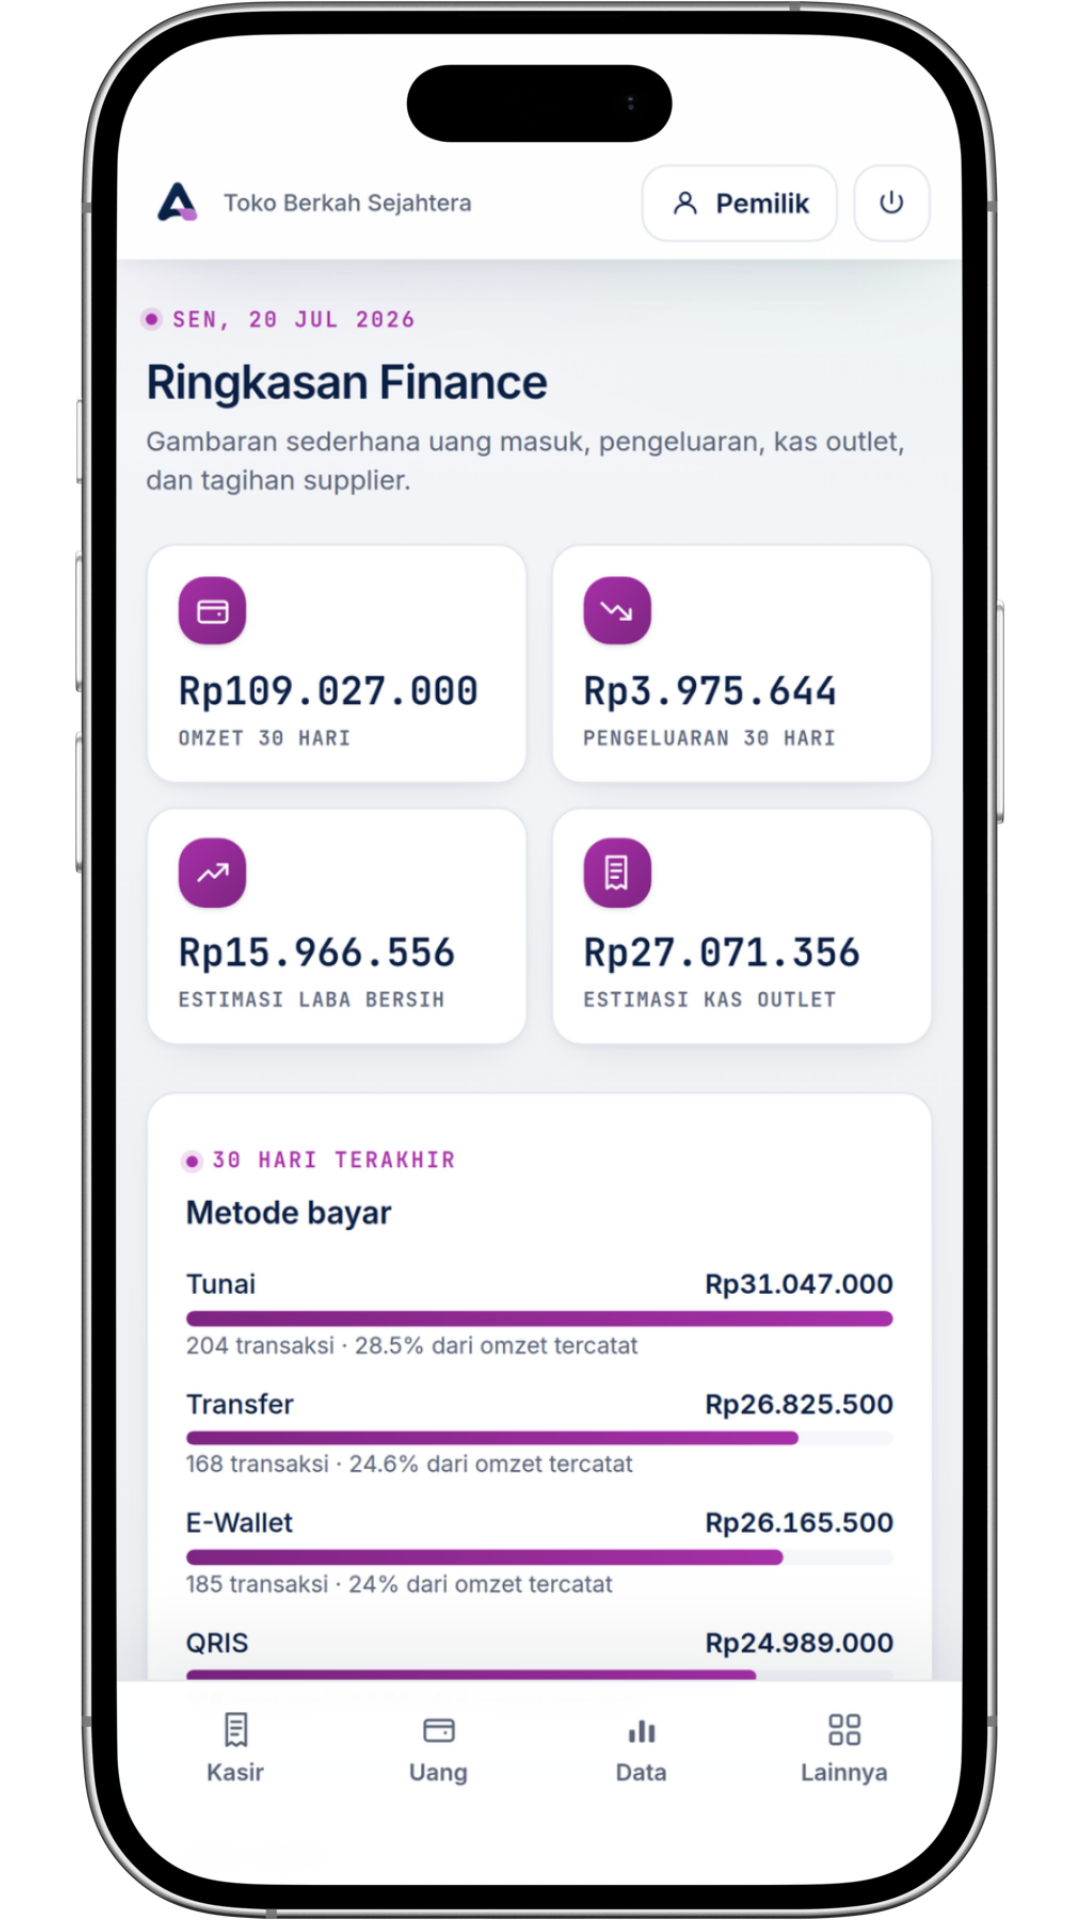
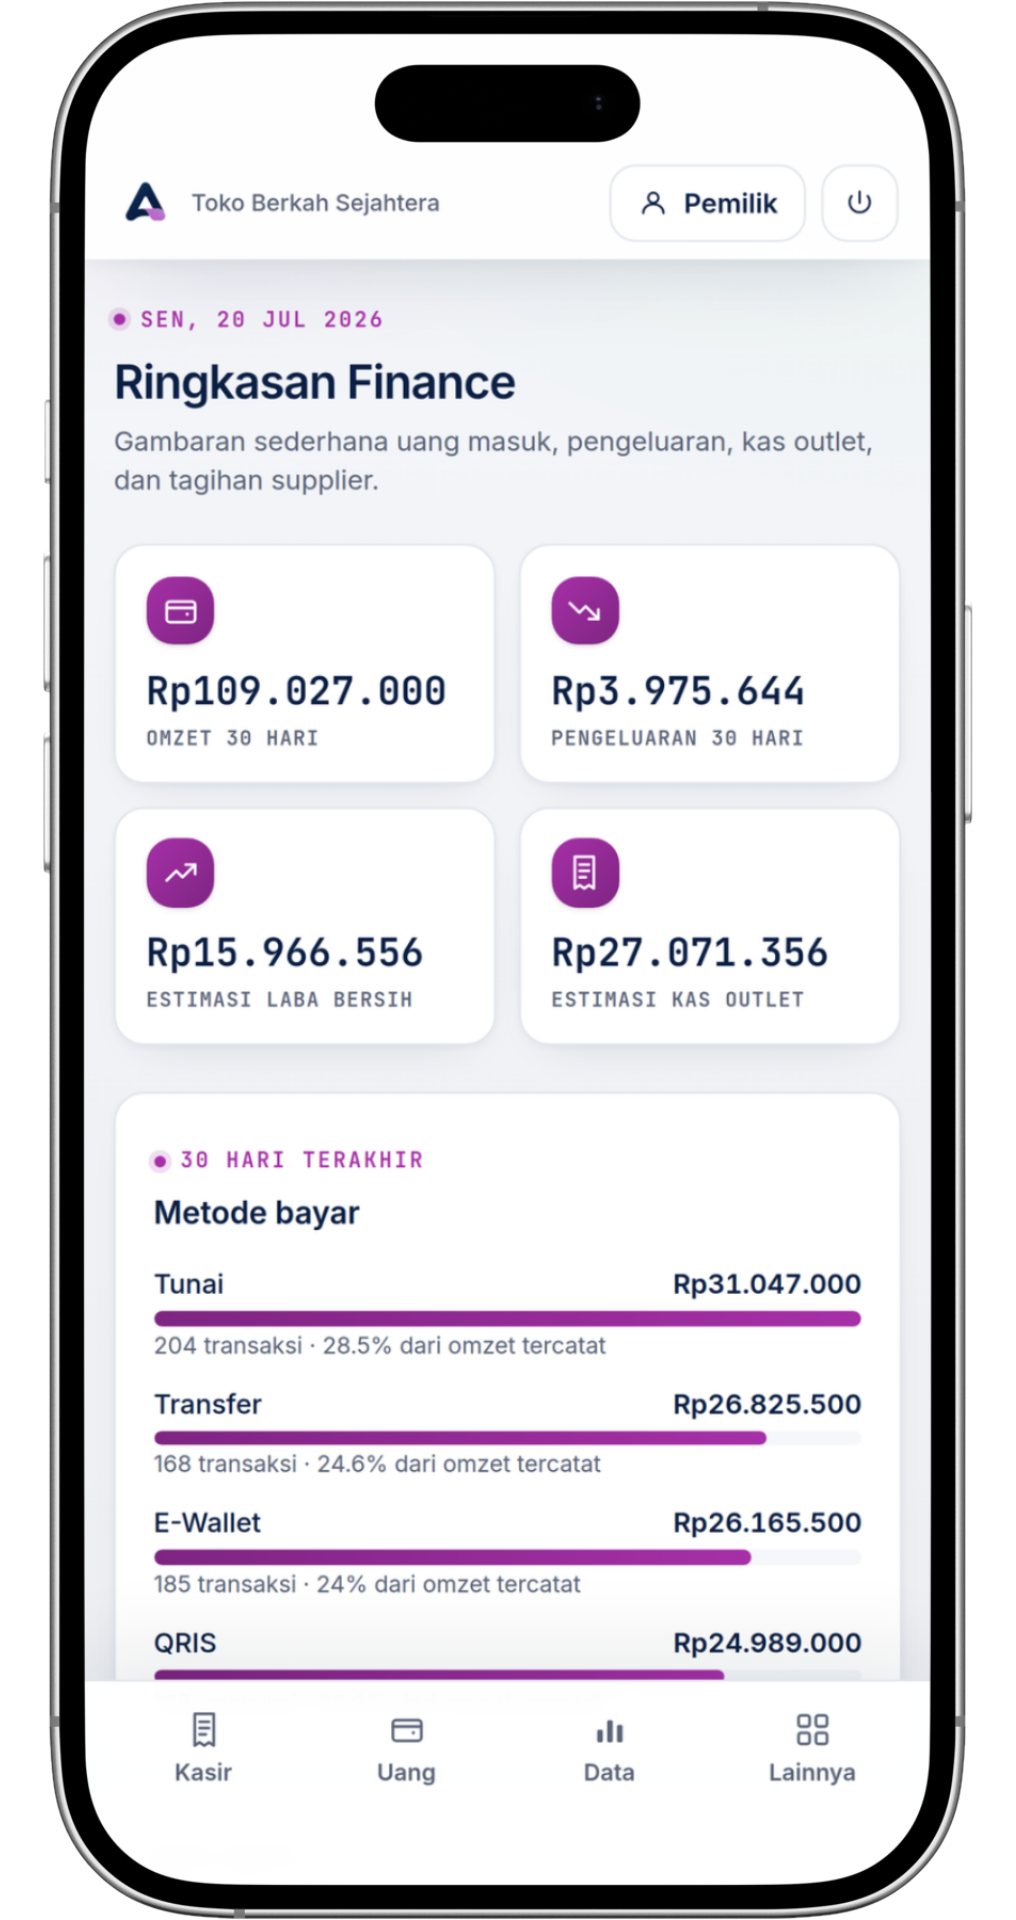
fix(landing): overlap device mockup photos instead of laying them side by side
Removed the flat white/light-gray background from each mockup photo
(flood-fill from the image corners, restricted to near-white pixels, so
white UI content on the actual screens isn't punched through) and
switched the layout from a flex row to absolute positioning on a shared
aspect-ratio stage, reusing the original .bs-stage composition
percentages (laptop back-left large, tablet overlapping top-right,
phone overlapping bottom-right, front-most) so it matches the reference
layout instead of three separate boxed photos with visible edges.

diff --git a/src/app/landing.css b/src/app/landing.css
@@ -1157,19 +1157,25 @@ html { scroll-behavior: auto; }
   }
 
 
-/* ---- Panggung foto device asli (ganti .bs-stage ilustrasi CSS) ---- */
-.altora-landing .device-photo-stage { display: flex; align-items: flex-end; gap: clamp(16px, 3vw, 32px); width: 100%; }
+/* ---- Panggung foto device asli (ganti .bs-stage ilustrasi CSS) ----
+   Background foto udah dihapus (flood-fill dari sudut gambar), jadi bisa
+   numpuk kayak komposisi lama tanpa keliatan kotak putih. Posisi %
+   niru proporsi .bs-stage lama, disesuaikan ke aspect-ratio foto asli:
+   stage 100:70.53 (laptop 78.1% lebar, tablet nyusul di kanan-atas,
+   phone di kanan-bawah, paling depan). */
+.altora-landing .device-photo-stage { position: relative; width: 100%; aspect-ratio: 100 / 70.53; }
 
-.altora-landing .device-photo-laptop { flex: 1.7 1 0; min-width: 0; }
-.altora-landing .device-photo-laptop img { width: 100%; }
+.altora-landing .device-photo-laptop,
+.altora-landing .device-photo-tablet,
+.altora-landing .device-photo-phone { position: absolute; filter: drop-shadow(0 22px 30px rgba(10, 31, 68, 0.22)); }
 
-.altora-landing .device-photo-side { flex: 1 1 0; min-width: 0; display: flex; flex-direction: column; align-items: flex-end; gap: 12px; }
+.altora-landing .device-photo-laptop img,
+.altora-landing .device-photo-tablet img,
+.altora-landing .device-photo-phone img { display: block; width: 100%; height: auto; }
 
-.altora-landing .device-photo-tablet { width: 68%; }
-.altora-landing .device-photo-tablet img { width: 100%; }
-
-.altora-landing .device-photo-phone { width: 46%; margin-top: -18%; align-self: flex-start; }
-.altora-landing .device-photo-phone img { width: 100%; }
+.altora-landing .device-photo-laptop { left: 0%; top: 0%; width: 78.1%; z-index: 1; }
+.altora-landing .device-photo-tablet { left: 66.25%; top: 17.14%; width: 25.49%; z-index: 2; }
+.altora-landing .device-photo-phone { left: 86.45%; top: 44.93%; width: 13.55%; z-index: 3; }
 
 
 .altora-landing .business-showcase-copy > span:first-child {
@@ -1700,11 +1706,9 @@ html { scroll-behavior: auto; }
      otomatis nyesuai ke width baru di sini — nggak perlu override lagi. */
   .altora-landing .bs-phone-wrap { left: auto; top: auto; right: 0; bottom: -6px; width: 118px; }
   .altora-landing .business-showcase-assurances { grid-template-columns: repeat(2, 1fr); gap: 14px; }
-  .altora-landing .device-photo-stage { flex-direction: column; align-items: center; gap: 24px; }
-  .altora-landing .device-photo-laptop { width: 100%; }
-  .altora-landing .device-photo-side { flex-direction: row; align-items: flex-end; width: 100%; justify-content: center; gap: 20px; }
-  .altora-landing .device-photo-tablet { width: 44%; }
-  .altora-landing .device-photo-phone { width: 30%; margin-top: 0; }
+  /* .device-photo-stage numpuk pakai absolute+aspect-ratio (lihat definisi
+     di atas) jadi seluruh komposisi otomatis scale bareng di lebar
+     berapa pun — nggak perlu override manual per breakpoint. */
 }
 
 

diff --git a/src/components/landing/business-showcase/device-stage-photo.tsx b/src/components/landing/business-showcase/device-stage-photo.tsx
@@ -1,22 +1,24 @@
 import Image from "next/image";
 
-/* Foto mockup device asli (bukan ilustrasi CSS) — satu foto tetap buat
-   semua tab vertikal, karena foto sudah baked/statis (nggak bisa ganti
-   konten kayak DeviceStage lama). Copy di sebelah kiri tetap ganti per
-   vertikal seperti biasa. */
+/* Foto mockup device asli (background sudah dihapus, jadi bisa numpuk
+   kayak komposisi .bs-stage lama) — satu foto tetap buat semua tab
+   vertikal, karena foto sudah baked/statis (nggak bisa ganti konten
+   kayak DeviceStage lama). Copy di sebelah kiri tetap ganti per
+   vertikal seperti biasa.
+   Posisi left/top/width % di CSS niru proporsi .bs-stage lama
+   (laptop 0,0,78.1% / tablet 66.25%,17.14%,25.49% / phone
+   86.45%,44.93%,13.55%), disesuaikan ke aspect-ratio foto asli. */
 export function DeviceStagePhoto() {
   return (
     <div className="device-photo-stage">
       <div className="device-photo-laptop">
-        <Image src="/landing-previews/showcase-laptop.png" alt="Tampilan Altora di laptop" width={1920} height={1080} sizes="(max-width: 860px) 100vw, 60vw" style={{ width: "100%", height: "auto" }} />
+        <Image src="/landing-previews/showcase-laptop.png" alt="Tampilan Altora di laptop" width={1862} height={1080} sizes="(max-width: 860px) 100vw, 60vw" style={{ width: "100%", height: "auto" }} />
       </div>
-      <div className="device-photo-side">
-        <div className="device-photo-tablet">
-          <Image src="/landing-previews/showcase-tablet.png" alt="Tampilan Altora di tablet" width={1080} height={1920} sizes="(max-width: 860px) 45vw, 22vw" style={{ width: "100%", height: "auto" }} />
-        </div>
-        <div className="device-photo-phone">
-          <Image src="/landing-previews/showcase-phone.png" alt="Tampilan Altora di HP" width={1080} height={1920} sizes="(max-width: 860px) 32vw, 15vw" style={{ width: "100%", height: "auto" }} />
-        </div>
+      <div className="device-photo-tablet">
+        <Image src="/landing-previews/showcase-tablet.png" alt="Tampilan Altora di tablet" width={1080} height={1714} sizes="(max-width: 860px) 30vw, 18vw" style={{ width: "100%", height: "auto" }} />
+      </div>
+      <div className="device-photo-phone">
+        <Image src="/landing-previews/showcase-phone.png" alt="Tampilan Altora di HP" width={1016} height={1920} sizes="(max-width: 860px) 18vw, 10vw" style={{ width: "100%", height: "auto" }} />
       </div>
     </div>
   );